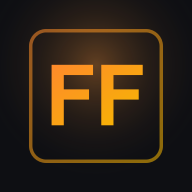
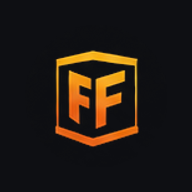
feat: prawdziwy znak FigureFame zamiast szablonowych ikon
Gablota z arkusza koncepcyjnego trafia obok nazwy w naglowku, a caly
zestaw ikon powstaje z tego samego zrodla.

Znak w naglowku ma dwie wersje, bo jedna nie wystarcza: wersja jasna na
ciemnym tle daje srebrne szklo zamiast rozswietlonego. Wpiete jako tlo
CSS, nie <img> — przegladarka pobiera wtedy tylko wersje pasujaca do
motywu. Obie na wspolnym plotnie 238x320, wiec przelaczenie motywu nie
przesuwa napisu obok.

Ikony robione z emblematu, nie z gabloty: arkusz sam wskazuje go do
malych rozmiarow, a plaska geometria znosi zejscie do 16 px, czego
szklana bryla nie robi. Proporcje wypelnienia roznia sie wedlug
przeznaczenia — 88% na zakladke, 74% na pulpit, 56% na wersje ktora
Android przycina do kola. Wczesniej maskable wskazywalo na zwykla ikone,
wiec Android obcinal jej rogi.

Skasowany favicon.svg — byl to fioletowy ksztalt (#863bff) z szablonu,
niezwiazany z projektem.

og-image skladany z czesci, nie wycinany w calosci: ciemne pasmo arkusza
ma proporcje 4:1 zamiast wymaganych 1,91:1, a w jego akapicie jest
literowka („rynkowyclb").

design/zbuduj-znaki.mjs odtwarza wszystkie osiem plikow z arkusza jednym
poleceniem. Wspolrzedne kadrow wyznaczone pomiarowo — bryla po ciemnym
cokole, kafelki po ciemnych pasach — dlatego wynik sie powtarza.
Prog przezroczystosci dla wersji ciemnej musi byc powyzej zmierzonej
jasnosci tla arkusza (26), inaczej tlo zostaje polprzezroczyste i rysuje
prostokatny szew wokol znaku.

Stopka: nazwisko zastapione adresem serwisu.

diff --git a/src/components/AnimatedHero.jsx b/src/components/AnimatedHero.jsx
@@ -214,23 +214,37 @@ const ParticleHero = ({
 
       {/* Treść */}
       <div className="relative z-10 text-center px-4">
-        <motion.h1
-          className="hero-title"
+        {/* Znak i nazwa stoją obok siebie jako jedna całość — tak samo jak na
+            wizytówkach i w opisach filmów. Na wąskim ekranie układają się
+            jedno pod drugim (index.css), bo w rzędzie nazwa zrobiłaby się
+            nieczytelnie mała. */}
+        <motion.div
+          className="hero-lockup"
           initial={{ opacity: 0, y: -20 }}
           animate={{ opacity: 1, y: 0 }}
           transition={{ duration: 0.8, ease: "easeOut" }}
-          onClick={onTitleClick}
-          style={{
-            fontSize: 'clamp(2.5rem, 6vw, 5rem)',
-            fontWeight: 900,
-            letterSpacing: '-0.05em',
-            margin: '0 0 1rem 0',
-            textShadow: '0 10px 30px rgba(255, 71, 87, 0.3)',
-            cursor: onTitleClick ? 'pointer' : 'default'
-          }}
         >
-          {title}
-        </motion.h1>
+          {/* Znak jest ozdobą przy nazwie, która i tak stoi obok — czytnik
+              ekranu przeczytałby ją dwa razy, stąd aria-hidden.
+              Tło zamiast <img>, bo są dwie wersje (jasna/ciemna): przeglądarka
+              pobiera wtedy tylko tę pasującą do motywu, a nie obie. */}
+          <div className="hero-logo" aria-hidden="true" />
+
+          <h1
+            className="hero-title"
+            onClick={onTitleClick}
+            style={{
+              fontSize: 'clamp(2.5rem, 6vw, 5rem)',
+              fontWeight: 900,
+              letterSpacing: '-0.05em',
+              margin: 0,
+              textShadow: '0 10px 30px rgba(255, 71, 87, 0.3)',
+              cursor: onTitleClick ? 'pointer' : 'default'
+            }}
+          >
+            {title}
+          </h1>
+        </motion.div>
 
         <motion.div
           initial={{ opacity: 0, y: 20 }}

diff --git a/src/index.css b/src/index.css
@@ -92,6 +92,42 @@ header p {
   -webkit-text-fill-color: transparent;
 }
 
+/* ---- Znak + nazwa jako jedna całość ---- */
+.hero-lockup {
+  display: flex;
+  align-items: center;
+  justify-content: center;
+  gap: clamp(0.75rem, 2.2vw, 2rem);
+  margin-bottom: 1rem;
+}
+
+.hero-logo {
+  /* Znak jest wyższy niż szerszy, więc wiążemy go z WYSOKOŚCIĄ nazwy —
+     inaczej przy szerokim ekranie urósłby ponad nią.
+     Obie wersje mają to samo płótno 238×320, więc przełączenie motywu
+     nie przesuwa napisu obok. */
+  height: clamp(5rem, 9vw, 8.5rem);
+  aspect-ratio: 238 / 320;
+  flex-shrink: 0;
+  background: url('/logo-ff-dark.webp') center / contain no-repeat;
+  filter: drop-shadow(0 10px 26px rgba(249, 115, 22, 0.22));
+}
+
+body.light-mode .hero-logo {
+  background-image: url('/logo-ff-light.webp');
+  filter: drop-shadow(0 12px 24px rgba(15, 15, 15, 0.16));
+}
+
+@media (max-width: 640px) {
+  .hero-lockup {
+    flex-direction: column;
+    gap: 0.75rem;
+  }
+  .hero-logo {
+    height: 6.5rem;
+  }
+}
+
 /* Top Nav */
 .top-nav {
   display: flex;

diff --git a/src/App.jsx b/src/App.jsx
@@ -53,7 +53,7 @@ function App() {
       </main>
 
       <footer className="app-footer">
-        <div className="footer-left">2026 Copyright by Klara Julia Nawrowska</div>
+        <div className="footer-left">2026 Copyright by FigureFame.com</div>
         <div className="footer-right">Created by <a href="mailto:artur.nawrowski@gmail.com">ArChi</a></div>
       </footer>
     </div>

diff --git a/index.html b/index.html
@@ -2,7 +2,7 @@
 <html lang="pl">
   <head>
     <meta charset="UTF-8" />
-    <link rel="icon" type="image/svg+xml" href="/favicon.svg" />
+    <link rel="icon" type="image/png" href="/favicon.png" />
     <meta name="viewport" content="width=device-width, initial-scale=1.0, viewport-fit=cover" />
     <meta name="theme-color" content="#f59e0b" />
 
